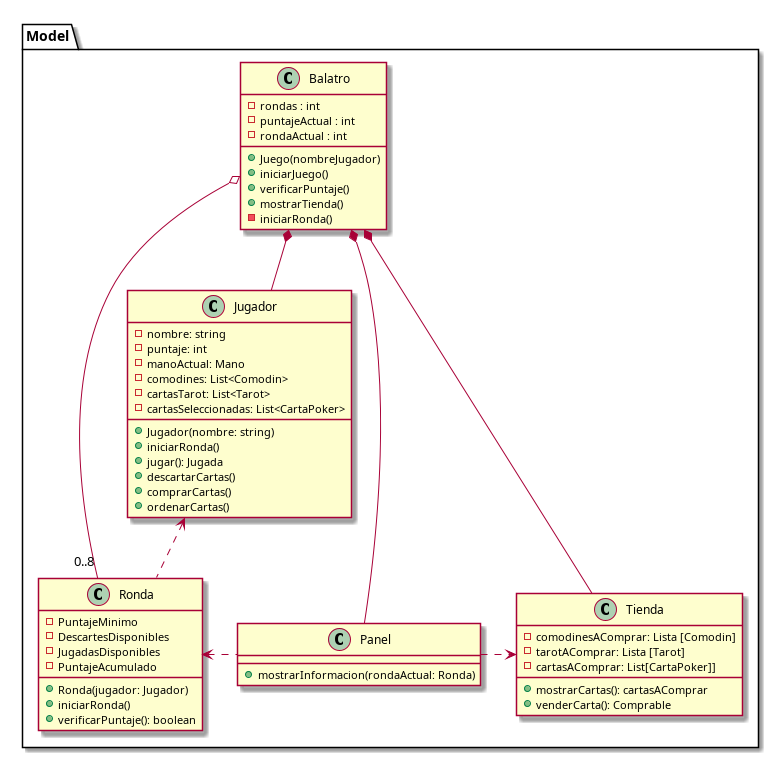
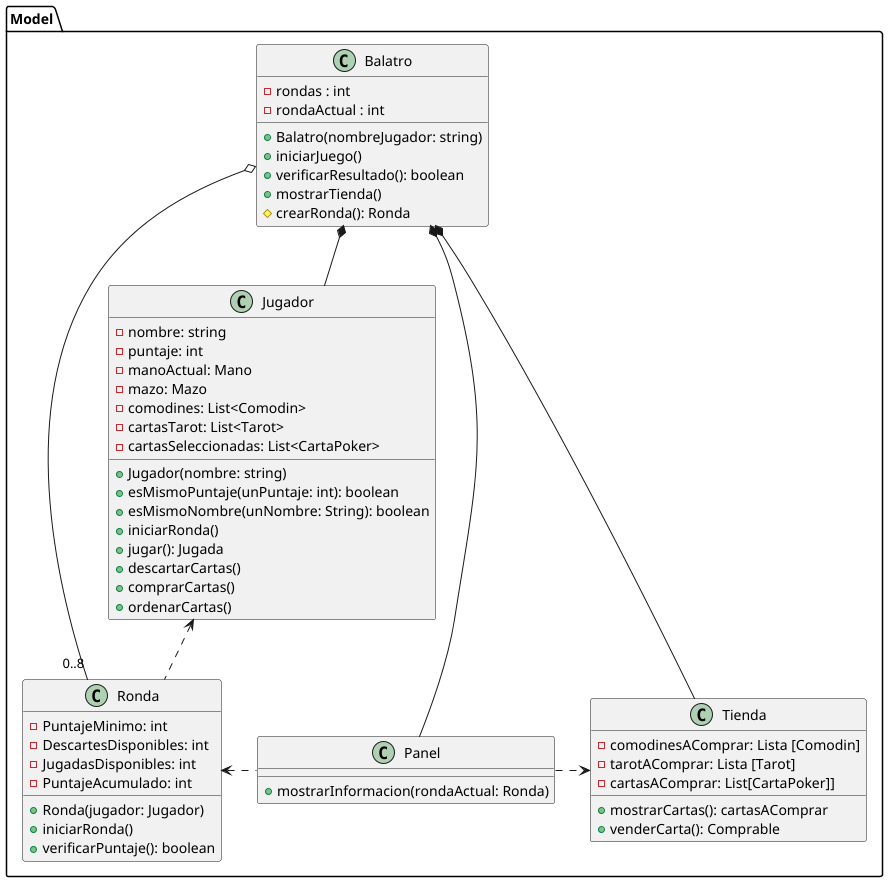
Actualizacion diagrama de clases. Modificacion clase jugador y su test

diff --git a/src/main/java/edu/fiuba/algo3/TarotsNoDisponiblesError.java b/src/main/java/edu/fiuba/algo3/TarotsNoDisponiblesError.java
@@ -1,0 +1,7 @@
+package edu.fiuba.algo3;
+
+public class TarotsNoDisponiblesError extends RuntimeException {
+  public TarotsNoDisponiblesError(String message) {
+    super(message);
+  }
+}
